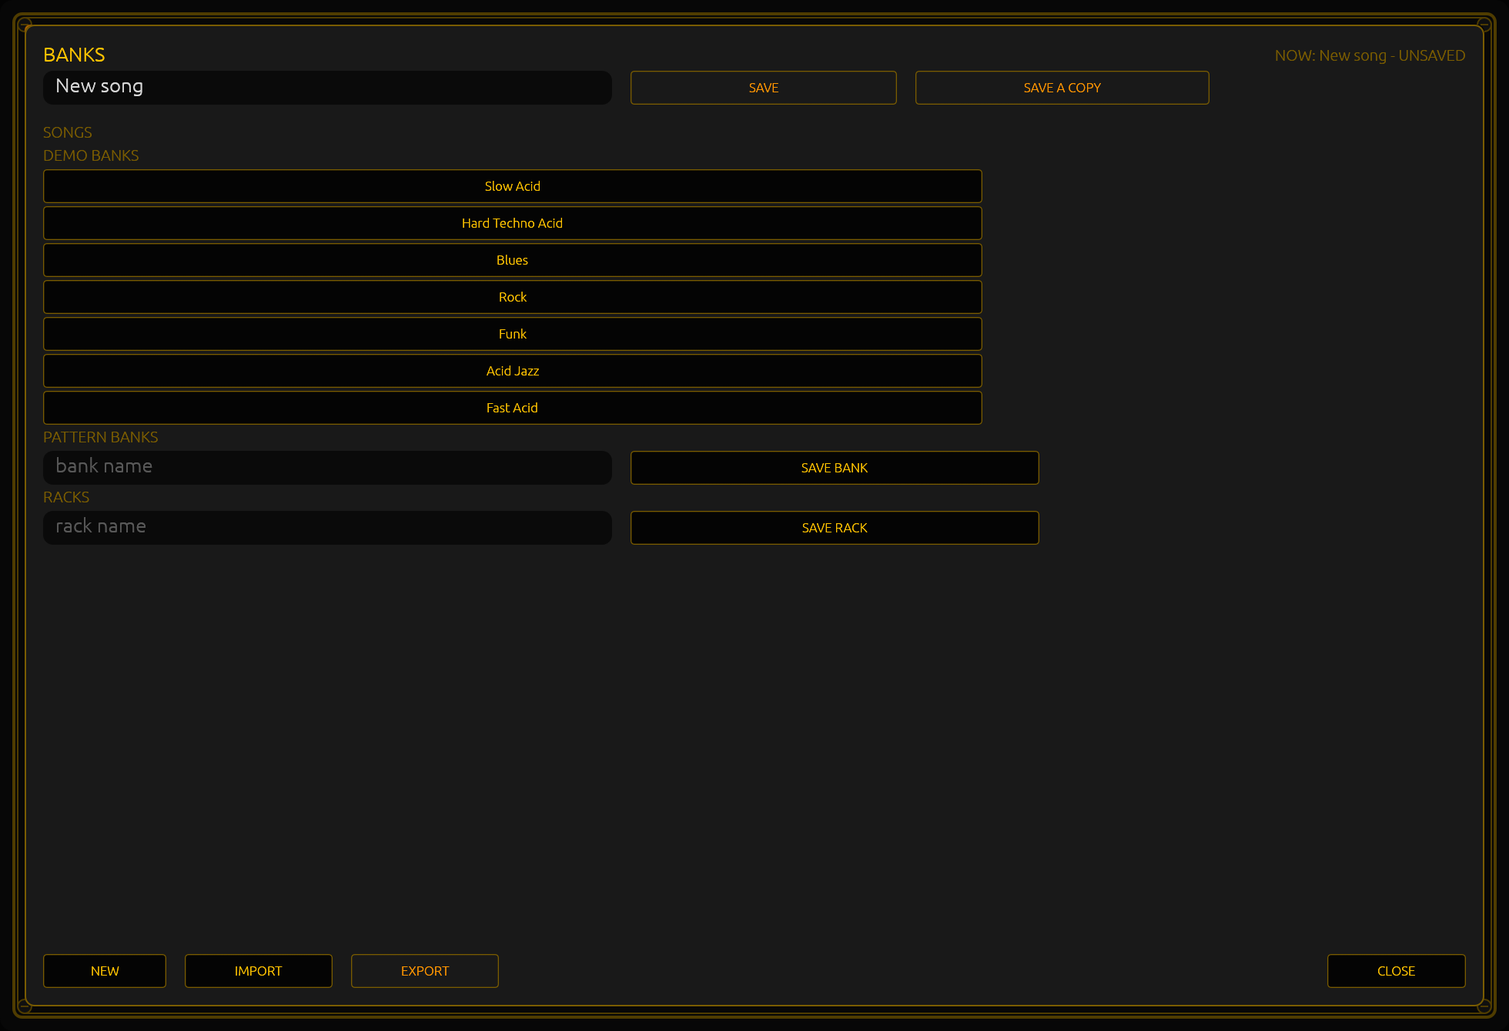
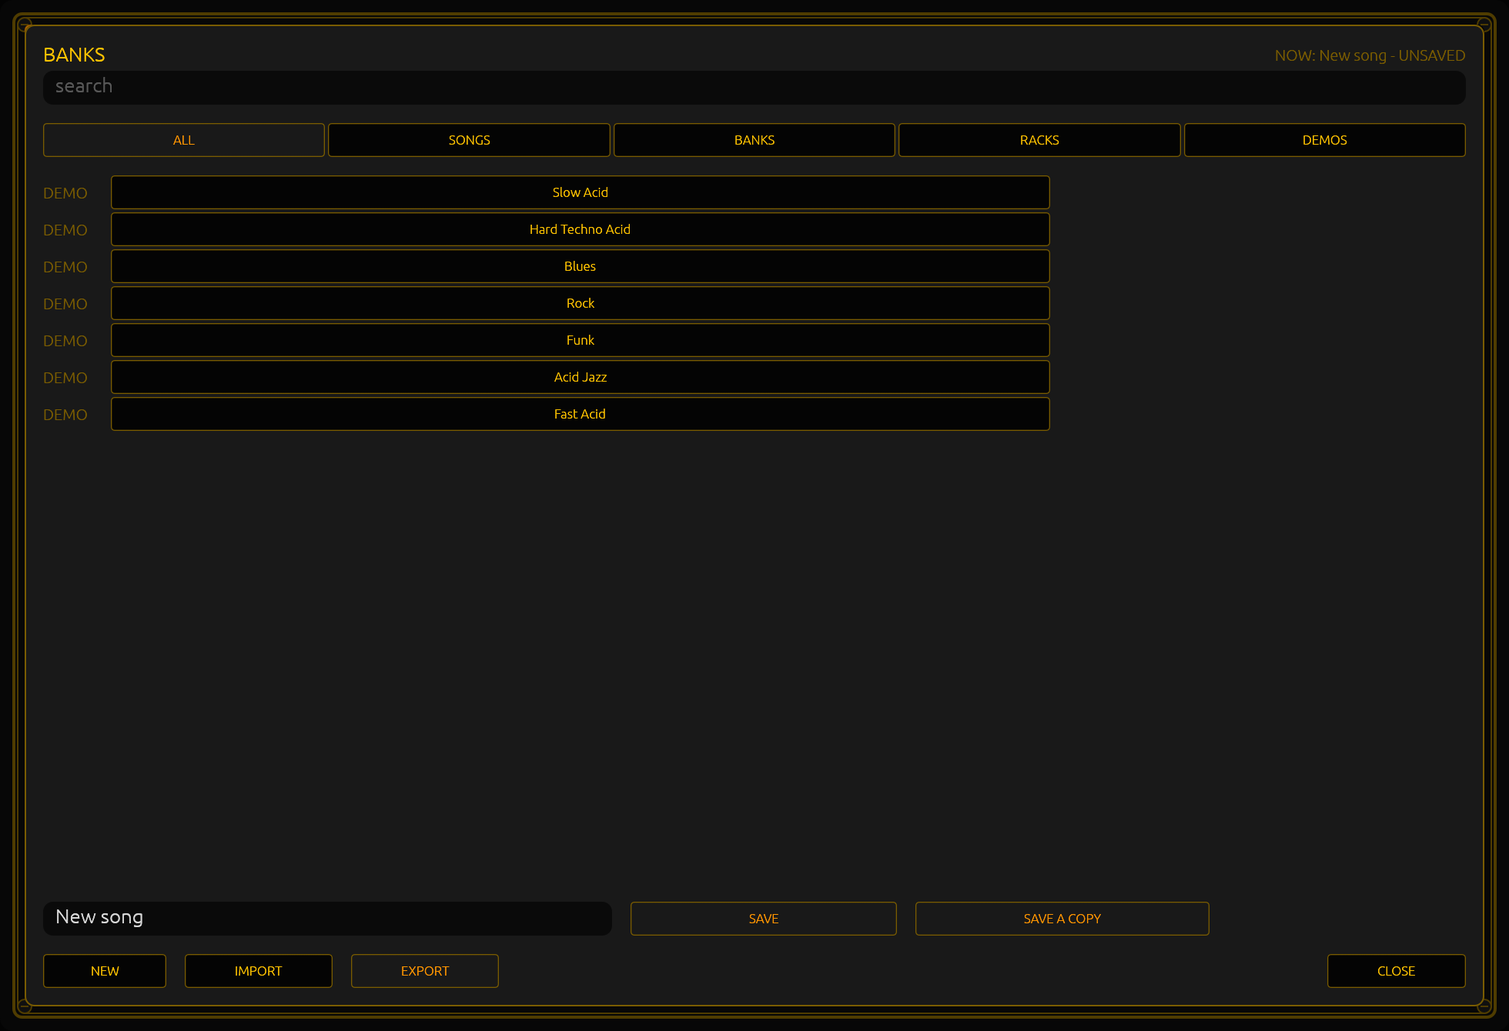
docs: the card is a browser

diff --git a/docs/guide/src/12-songs-and-demos.md b/docs/guide/src/12-songs-and-demos.md
@@ -1,55 +1,100 @@
 # Songs and demos
 
-`BANKS` opens the browser that keeps your work: a name field with `SAVE` and `SAVE A COPY` beside it, four lists, and four
-keys along the bottom. It keeps three different amounts of work: a **song** is the whole rack, a **pattern bank** is sixty-four
-patterns and the machine they were written on, and a **rack** is every machine with its patches and banks, as a file of its own.
+`BANKS` opens the browser that keeps your work: a search field, one row of chips that narrow the list by kind, one list of
+everything the card knows, and four keys along the bottom. It keeps three different amounts of work: a **song** is the whole
+rack, a **pattern bank** is sixty-four patterns and the machine they were written on, and a **rack** is every machine with its
+patches and banks, as a file of its own.
 
-## The four lists
+## One list you can search
 
-**`SONGS`** are the saves you have named. Click a row to load one. If what is on screen has unsaved changes, the first
-click only arms the row — it prints `<name> - click again to replace` — and the second click loads it.
-`SONGS` is the first list on the card, directly under the name field that saves the song it names.
+Every row carries its kind in its own column — `SONG`, `BANK`, `RACK`, `DEMO` — so a row says what it is before you click it. The
+kinds always come in that order: your songs, then the pattern banks, then the racks, then the seven demos.
 
-Every row of `SONGS`, `PATTERN BANKS` and `RACKS` has a small `x` at its right end. One click turns it into `SURE`; the second
-deletes that file. The demos have no `x`.
+A **search field** sits under the title, above the chips. Type into it and the list narrows to the rows whose name contains what
+you typed, whatever the case; clear it and everything comes back. It reads names only — no guessing, no ranking — so what it
+finds is always what you can see.
 
-**`DEMO BANKS`** are the seven that ship inside the app: **Slow Acid**, **Hard Techno Acid**, **Blues**, **Rock**,
-**Funk**, **Acid Jazz** (a `1/8T` triplet line) and **Fast Acid** (a `1/32` one). They are read-only — there is no way to
-overwrite one — and each is a patch plus eight patterns in `A1` to `A8` ([`23-pattern-grids`](23-pattern-grids.md))
-([`11-the-bank`](11-the-bank.md)). Clicking one loads it as a **new** song: named `New song`, not yet on disk — its name
-sits in amber until you save it, which is how the face says "not yet written".
+The chips are one row of keys, and one of them is lit: `ALL` `SONGS` `BANKS` `RACKS` `DEMOS`. `ALL` shows every kind and is where
+the card opens; a chip shows one. The chip and the search compose, so `BANKS` with `easy` typed is the banks whose name holds
+"easy". **A change of chip or of search puts the list back at the top**, because it is a different list.
 
-On a drum machine the same seven rows load that demo's **drum bank** instead: eight grooves into `A1` to `A8`, at the
-demo's tempo and shuffle, with that machine's kit and the session's name left exactly as they were. The tempo is the whole
-rack's, though — one cell, every machine on it — so loading a bank also retunes the 303s beside it, and that tempo, unlike a
-second device's grooves, is what a save keeps. A drum bank is patterns, not a song — nothing is renamed and no sound is loaded with it.
-A save keeps every machine in the rack ([`18-a-rack-of-devices`](18-a-rack-of-devices.md)), so a drum machine's grooves are
-kept whichever cell it sits in. [`22-the-drum-machine`](22-the-drum-machine.md) is the drum machine's own page, its grid and
-its kits.
+The card remembers neither: close it and it opens again on `ALL` with nothing typed.
 
-**`PATTERN BANKS`** are the banks you have saved: sixty-four patterns each, `A1` to `H8`, and the machine the bank was written
-on. A row loads that bank into the **selected device**, replacing all sixty-four of its patterns — what a demo row has always done
-to a drum machine's grid, now with a file of your own. If what is on screen has unsaved changes, the first click only arms the row
-— it prints `<name> - click again to replace the bank` — and the second loads it. A bank written on the other machine loads and
+## The strip saves the kind you are looking at
+
+Under the list is one row — a name field and the keys that save. **The strip under the list follows the chip you are on:**
+
+| the chip | the field | the keys |
+|---|---|---|
+| `ALL`, `SONGS`, `DEMOS` | the song's name | `SAVE`, `SAVE A COPY` |
+| `BANKS` | the bank's name | `SAVE BANK` |
+| `RACKS` | the rack's name | `SAVE RACK` |
+
+Every key names its own verb, so no key's meaning depends on where it sits. `ALL` and `DEMOS` show the song's door because the
+session is what is always open; `BANKS` and `RACKS` show their own because that is the thing you are looking at.
+
+The cost, stated: a player on `BANKS` who wants to save the **song** clicks `ALL` or `SONGS` first. That is one click, with the
+chips on screen, and it buys a much better thing — the strip and the footer never scroll, so a door is always reachable however
+long the list is.
+
+## When the list is longer than the band
+
+The list is one band of a fixed height, and it scrolls. Wheel over it and the rows move; a thin mark down its right edge says
+there is more of it, and the mark is drawn only when there is — a library that fits looks like a short list with no mark at all.
+Nineteen rows fit at the design size.
+
+A row the band cannot show is reached by scrolling to it, never by pushing a key off the card. That is why `SAVE BANK` and
+`SAVE RACK` live in the strip rather than under their own rows.
+
+When the chip and the search leave nothing, the band says which nothing it is: `NOTHING MATCHES` when you have typed something,
+and `NO SONGS YET` / `NO BANKS YET` / `NO RACKS YET` when a chip on its own is empty. The strip still saves under an empty list.
+
+## What each kind of row does
+
+**A `SONG` row** is a save you have named. Click it to load one. If what is on screen has unsaved changes, the first click only
+arms the row — it prints `<name> - click again to replace` — and the second click loads it.
+
+**A `BANK` row** is a pattern bank you have saved: sixty-four patterns, `A1` to `H8`, and the machine the bank was written on. A
+row loads that bank into the **selected device**, replacing all sixty-four of its patterns — what a demo row has always done to a
+drum machine's grid, now with a file of your own. If what is on screen has unsaved changes, the first click only arms the row —
+it prints `<name> - click again to replace the bank` — and the second loads it. A bank written on the other machine loads and
 plays nothing; the status line says so and names the machine the file names.
 
-`SAVE BANK`, under those rows, keeps the selected device's bank under a name, and its field behaves as the song's does: the
-bank's own name rewrites that file, a different name writes a new one — beside a taken one, `Easy (2)`, so a bank never destroys
-another by being given its name — and a blank field saves the bank the device came from. A bank's door is on its own heading
-rather than in the footer, and there is no `IMPORT` or `EXPORT` for one: `banks/` is the folder, and a file dropped into it loads.
+**A `RACK` row** is one of your saved racks: one `racks/<name>.json` per file, each the whole instrument — every machine with its
+kind, name, colour, ports, channel, role, patterns, patch, kit, shuffle and learned controllers. A row loads that rack into the
+session, replacing **every** machine in it; the song's name and the tempo stay where they are, because a rack file carries no
+transport and no song. If what is on screen has unsaved changes, the first click only arms the row — it prints
+`<name> - click again to replace the rack` — and the second loads it.
 
-**`RACKS`** are the racks you have saved: one `racks/<name>.json` per file, each the whole instrument — every machine with its
-kind, name, colour, ports, channel, role, patterns, patch, kit, shuffle and learned controllers. A row loads that rack into
-the session, replacing **every** machine in it; the song's name and the tempo stay where they are, because a rack file carries
-no transport and no song. If what is on screen has unsaved changes, the first click only arms the row — it prints
-`<name> - click again to replace the rack` — and the second loads it. Each row's `x` turns into `SURE` and deletes the file.
+**A `DEMO` row** is one of the seven that ship inside the app: **Slow Acid**, **Hard Techno Acid**, **Blues**, **Rock**, **Funk**,
+**Acid Jazz** (a `1/8T` triplet line) and **Fast Acid** (a `1/32` one). They are read-only — there is no way to overwrite one —
+and each is a patch plus eight patterns in `A1` to `A8` ([`23-pattern-grids`](23-pattern-grids.md))
+([`11-the-bank`](11-the-bank.md)). Clicking one loads it as a **new** song: named `New song`, not yet on disk — its name sits in
+amber until you save it, which is how the face says "not yet written".
 
-`SAVE RACK`, under those rows, keeps the session's machines under a name, and its field behaves as the bank's does: the rack's
-own name rewrites that file, a different name writes a new one — beside a taken one, `Studio (2)` — and a blank field saves
-the rack the session came from. That name is remembered for this session and not across a restart, so after relaunching, a
-name already taken is stepped around rather than written over.
+On a drum machine the same seven rows load that demo's **drum bank** instead: eight grooves into `A1` to `A8`, at the demo's
+tempo and shuffle, with that machine's kit and the session's name left exactly as they were. The tempo is the whole rack's,
+though — one cell, every machine on it — so loading a bank also retunes the 303s beside it, and that tempo, unlike a second
+device's grooves, is what a save keeps. A drum bank is patterns, not a song — nothing is renamed and no sound is loaded with it.
+A save keeps every machine in the rack ([`18-a-rack-of-devices`](18-a-rack-of-devices.md)), so a drum machine's grooves are kept
+whichever cell it sits in. [`22-the-drum-machine`](22-the-drum-machine.md) is the drum machine's own page, its grid and its kits.
 
-A load brings the machines back as the file wrote them, and what a restart forgets a recall forgets too: every machine comes
+Every row of a kind that is a file — `SONG`, `BANK` and `RACK` — has a small `x` at its right end. One click turns it into `SURE`;
+the second deletes that file. The demo rows have none: they are the app's, not yours.
+
+## The two fields that save something other than the song
+
+`SAVE BANK` keeps the selected device's bank under a name, and its field behaves as the song's does: the bank's own name rewrites
+that file, a different name writes a new one — beside a taken one, `Easy (2)`, so a bank never destroys another by being given its
+name — and a blank field saves the bank the device came from. There is no `IMPORT` or `EXPORT` for a bank: `banks/` is the folder,
+and a file dropped into it loads.
+
+`SAVE RACK` keeps the session's machines under a name, and its field behaves the same way: the rack's own name rewrites that file,
+a different name writes a new one — beside a taken one, `Studio (2)` — and a blank field saves the rack the session came from.
+That name is remembered for this session and not across a restart, so after relaunching, a name already taken is stepped around
+rather than written over.
+
+A rack load brings the machines back as the file wrote them, and what a restart forgets a recall forgets too: every machine comes
 back unmuted, running forwards and in tune.
 
 ## One song, the whole rack

diff --git a/docs/guide/src/img/README.md b/docs/guide/src/img/README.md
@@ -65,17 +65,15 @@ the build: the pictures are committed PNGs, and this note is what makes them rep
   said `2000 1400` before the launch and `getwindowgeometry` then said `1960x1340` — with `TAKKA_ACID_DATA_DIR=/tmp/takka-guide`,
   emptied first, and the pointer parked at 5,5 before every grab. It took three pictures: `transport.png` (first run:
   `GRID` and its `1/16` readout, no `TBC`), `35-grid.png` after one press of `GRID` (the row at thirty-two keys, the
-  step band only), and `banks-card.png` after clicking `BANKS` on that same first run (seven demo rows).
-  `1960x1340` — with `TAKKA_ACID_DATA_DIR=/tmp/takka-guide-banks`, emptied first. The card's other rows are driven by clicks, but
-  its **text fields cannot be typed into under Xvfb**: `xdotool type` and `xdotool key --window <id>` both printed
-  `XGetInputFocus returned the focused window of 1` and delivered nothing, though the click that focused the field did take (the
-  cursor and the brighter border are visible in the grab that proved it). So the picture's two rows come from the two ways a row
-  can appear: `SAVE` was pressed with the field as it arrived — `New song`, which is why `SONGS` has a row and the header reads
-  `SAVED` — and `Easy` was written into `banks/` by a throwaway test before the relaunch, because a first run has no bank and the
-  card reads `banks/` the frame it opens. `BANKS` opened the card at `switches::cell(layout(980 × 670).switches, Switch::Banks)`
-  doubled, 1525,1122, and the pointer was parked at 1990,1390 on the 2000 × 1400 screen before the grab, so no tip and no notice
-  is in it. The `bank name` field shows its hint rather than `Easy` because nothing was loaded: no bank is the selected device's
-  until one is.
+  step band only), and `banks-card.png` after clicking `BANKS` on that same first run (seven demo rows) — a picture retaken
+  since, twice; the `img/banks-card.png` row below records the current one.
+- **Text fields cannot be typed into under Xvfb**, which is why no picture in this book shows a name typed into one: `xdotool
+  type` and `xdotool key --window <id>` both printed `XGetInputFocus returned the focused window of 1` and delivered nothing,
+  though the click that focused the field did take — the cursor and the brighter border are visible in the grab that proved it.
+  A picture that needs a saved document takes one of the two other routes: press `SAVE` with the field as it arrived, or write
+  the file into the library with a throwaway test and launch again, because the card reads `banks/` and `racks/` the frame it
+  opens. `BANKS` opened at `switches::cell(layout(980 × 670).switches, Switch::Banks)` doubled — 1525,1122 — and the pointer was
+  parked at `20 20` before every grab, so no tip and no notice is in any of them.
 
 ## The images
 
@@ -85,7 +83,7 @@ the build: the pictures are committed PNGs, and this note is what makes them rep
 | `img/running.png` | the transport running: `PLAY` lit in the tape deck, `PAUSE` dark | `space` from the first-sound state |
 | `img/help-card.png` | the help card over the panel: the arrows as two pairs (`shift+left` / `right` the pattern, `shift+up` / `down` the tempo, then the plain `left` / `right` and `up` / `down` for the face), the drum face's keys folded into those lines, and its two own lines — `h` and `l` / `b` / `p` | `F1` on the arrows round's session (below), pointer parked outside the window |
 | `img/settings-card.png` | the settings card, `MIDI IN` naming the port in use | `F2` |
-| `img/banks-card.png` | the bank browser, retaken for phase 8 round 02: `NOW: New song - UNSAVED`, the song's name field and `SAVE` / `SAVE A COPY` at the top, then `SONGS` (a heading and no rows on a first run — the list now sits under the box that names it), the **seven** demo banks ending in `Acid Jazz` and `Fast Acid`, the `PATTERN BANKS` field with `SAVE BANK`, and `RACKS` with its `rack name` field and `SAVE RACK` | `Xvfb :88 -screen 0 2000x1400x24` (it said `2000 1400`), `TAKKA_ACID_DATA_DIR` a fresh `/tmp/takka-guide-8b`, window `1960x1340`, click `BANKS` at `762 561` logical (`xdotool mousemove 1525 1122 click 1`), pointer parked at `20 20` |
+| `img/banks-card.png` | the bank browser as round 03 left it: `NOW: New song - UNSAVED`, the search field with its `search` hint, the five chips `ALL` `SONGS` `BANKS` `RACKS` `DEMOS` with `ALL` lit, one list whose seven rows are all **demos** under their `DEMO` tags (a first run has no songs, banks or racks, and demos are factory content, so this is still a first run), then the song's strip — the `New song` field with `SAVE` and `SAVE A COPY` — and `NEW` `IMPORT` `EXPORT` `CLOSE`. No mark down the band's right edge, because seven rows fit | `Xvfb :89 -screen 0 2000x1400x24` (`DISPLAY=:89 xdotool getdisplaygeometry` said `2000 1400` before the launch, and `getwindowgeometry` then said `1960x1340`), `TAKKA_ACID_DATA_DIR` a fresh `/tmp/takka-guide-8c` as the only change from a launch, click `BANKS` at `762 561` logical (`xdotool mousemove 1525 1122 click 1`), pointer parked at `20 20`, `import -window 2097154` — 1960 × 1340, uncropped |
 | `img/device-card.png` | the device card for `ACID 1`: `COLOUR BLACK`, one port, `MUTE OFF` | `F3` |
 | `img/picker.png` | the picker: `ADD DEVICE` with the `ACID` and `DRUMS` rows and `CLOSE`, and nothing under them — retaken in the whole-rack round, when the line that said names and extra devices were not saved went away | click `+` at the strip's right end; park the pointer outside the window before grabbing |
 | `img/theme-list.png` | the card for `ACID 1` with the theme list open over it, the dot on `BLACK`, eleven of the twenty-two rows and the scroll thumb | `F3`; click `COLOUR`; park the pointer away from the knobs before grabbing, or their tooltip lands in the picture |

diff --git a/plans/phase 8/03-the-card-as-a-browser.md b/plans/phase 8/03-the-card-as-a-browser.md
@@ -527,3 +527,27 @@ The branch review's findings and what was done about each go here too, before th
   it into the thirty-song test, which already asserts three doors and the mark; a fourth subject there would be a test named
   for one thing and proving four. The fixture is shared through `crowded()`, so both tests are about the same library. Cost if
   wrong: two tests share a fixture and a reader finds the wheel's reach under its own name.
+- **Task 6 — the book, the pins and the picture.** `12-songs-and-demos` is rewritten as the browser: the search field, the five
+  chips and what they narrow, one list whose rows carry their kind, the strip following the chip (with the table and the one
+  click's cost), the scrolling band and its mark, the empty band's sentences, and a section per kind of row that keeps the
+  paragraphs about what a song, a bank, a rack and a demo *are*. `20-reference`'s browser line names the chips and the search
+  field; `22-the-drum-machine` puts the seven demos under the `DEMOS` chip where it put them under a heading; `18-a-rack-of-devices`
+  names the `RACKS` chip and its dead `#the-four-lists` anchor now points at `#what-each-kind-of-row-does`. `check.sh` moves
+  `PATTERN BANKS` from the must-say list to a `gone` guard beside new ones for `DEMO BANKS` and `the first list on the card`, and
+  pins three new facts — the chips' row, `sits under the title, above the chips`, and `follows the chip you are on` — each on one
+  line, because a pin is raw `grep -F`. `./docs/guide/check.sh` → `guide: ok`. `banks-card.png` is retaken (below) and its
+  `img/README.md` row rewritten. Suite **1022/1022**, clippy `-D warnings`, `fmt --check`, `guide: ok`.
+  **Ruling: page `05-the-three-cards` is edited, though the plan's Files block does not name it.** Its paragraph described the
+  card as "the name field and `SAVE` / `SAVE A COPY`, the seven demo songs, your own songs" — a card that no longer exists — and
+  it is the page the picture sits on. `AGENTS.md` makes a guide that contradicts the panel a bug, which outranks a Files list.
+  Cost if wrong: one paragraph in a page this round did not set out to touch.
+  **Ruling: the picture shows rows that stop two-thirds across, as the card has since phase 5, and no mark down the band.**
+  `Rects::row` keeps the shipped share of the band and the cross sits in its own column right of it; a demo row has no cross, so
+  the seven rows of a first run leave the right of the card bare. Widening the row to the band is a face change the plan left
+  unasked, and it would be a Task-6 edit to the painter's geometry. Cost if wrong: a player reads the empty right of a short
+  list as unfinished, and the fix is one share in `Rects`.
+  **The picture's facts, checked rather than assumed:** `DISPLAY=:89 xdotool getdisplaygeometry` → `2000 1400` before the
+  launch, `getwindowgeometry` → `1960x1340`, `TAKKA_ACID_DATA_DIR=/tmp/takka-guide-8c` fresh, `BANKS` clicked at `762 561`
+  logical (`xdotool mousemove 1525 1122 click 1`), pointer parked at `20 20`, `import -window 2097154` uncropped at
+  1960 × 1340. `ALL` is drawn lit — its fill reads `srgb(25,25,25)` against the other chips' `srgb(4,4,4)`, its legend in
+  `lit_ink` — so the design's "the selected one is lit" is in the picture, not just in the code.

diff --git a/docs/guide/src/20-reference.md b/docs/guide/src/20-reference.md
@@ -143,9 +143,10 @@ notes this round.
 **The kit browser:** `KITS`, `FACTORY`, `MY KITS`, `IMPORT`, `CLOSE`, each of the three kits that ship marked `- READ ONLY`,
 and the row being asked about on `<name> - click again to replace`.
 
-**The bank browser:** `BANKS`, `SONGS`, `DEMO BANKS`, `PATTERN BANKS`, `RACKS`, `SAVE`, `SAVE A COPY`, `SAVE BANK`, `SAVE RACK`,
-`NEW`, `IMPORT`, `EXPORT`, `CLOSE`, a row per song, per bank file and per rack file, and the `x` / `SURE` on each of your own
-rows, of a song, of a bank and of a rack.
+**The bank browser:** `BANKS`, the search field, the chips `ALL` `SONGS` `BANKS` `RACKS` `DEMOS`, `SAVE`, `SAVE A COPY`,
+`SAVE BANK`, `SAVE RACK`, `NEW`, `IMPORT`, `EXPORT`, `CLOSE`, a row per song, per bank file, per rack file and per demo, each
+rowed under its kind's word — `SONG`, `BANK`, `RACK`, `DEMO` — and the `x` / `SURE` on each row of your own, of a song, of a bank
+and of a rack.
 
 **The help card** has four sections — `STEPS`, `KEYBOARD`, `MIDI`, `NOTES`.
 

diff --git a/docs/guide/src/18-a-rack-of-devices.md b/docs/guide/src/18-a-rack-of-devices.md
@@ -82,8 +82,8 @@ on the status line when the machine tries to load it, and the machine keeps the 
 ## A rack of your own
 
 The session file keeps the rack you are working on. A **rack file** keeps the machines themselves, as a preset you can recall
-into any session: `BANKS`'s `RACKS` section saves one, lists the ones you have, loads one and deletes one
-([`12-songs-and-demos`](12-songs-and-demos.md#the-four-lists) is that section of the card).
+into any session: the `RACKS` chip on `BANKS` saves one, lists the ones you have, loads one and deletes one
+([`12-songs-and-demos`](12-songs-and-demos.md#what-each-kind-of-row-does) is the row, and the strip beside it).
 
 A load replaces every machine in the session and leaves the song's name and the tempo alone — a rack built at 150 is heard at
 whatever the song is playing when you recall it, which is what keeps four machines on one clock. What a restart forgets, a

diff --git a/docs/guide/src/22-the-drum-machine.md b/docs/guide/src/22-the-drum-machine.md
@@ -116,7 +116,7 @@ repository records where every sample in the three that ship came from and that 
 ## The demos, as drums
 
 `BANKS` is the same browser the 303 opens ([`12-songs-and-demos`](12-songs-and-demos.md)), with the same seven demo names
-under `DEMO BANKS` — **Slow Acid**, **Hard Techno Acid**, **Blues**, **Rock**, **Funk**, **Acid Jazz** and **Fast Acid**.
+under the `DEMOS` chip — **Slow Acid**, **Hard Techno Acid**, **Blues**, **Rock**, **Funk**, **Acid Jazz** and **Fast Acid**.
 On a drum machine a click
 loads that demo's **drum bank** instead of a song: eight grooves into `A1` to `A8`, at the demo's tempo and shuffle, with
 this machine's kit and the session's name left alone. The acid line and its drums are two halves of one variation, and a

diff --git a/docs/guide/src/05-the-three-cards.md b/docs/guide/src/05-the-three-cards.md
@@ -31,7 +31,8 @@ card's business. [`13-settings`](13-settings.md) walks the card.
 
 ![The bank browser](img/banks-card.png)
 
-The card with the most on it: the name field and `SAVE` / `SAVE A COPY`, the seven demo songs, your own songs, and `NEW`,
+The card with the most on it: a search field, the chips `ALL` `SONGS` `BANKS` `RACKS` `DEMOS`, one list of every song, bank,
+rack and demo, the strip whose field and keys follow the chip, and `NEW`,
 `IMPORT`, `EXPORT` and `CLOSE`. [`12-songs-and-demos`](12-songs-and-demos.md) walks that one.
 
 **Out:** the same as settings: the card's own close, `Escape`, or a click outside it.
